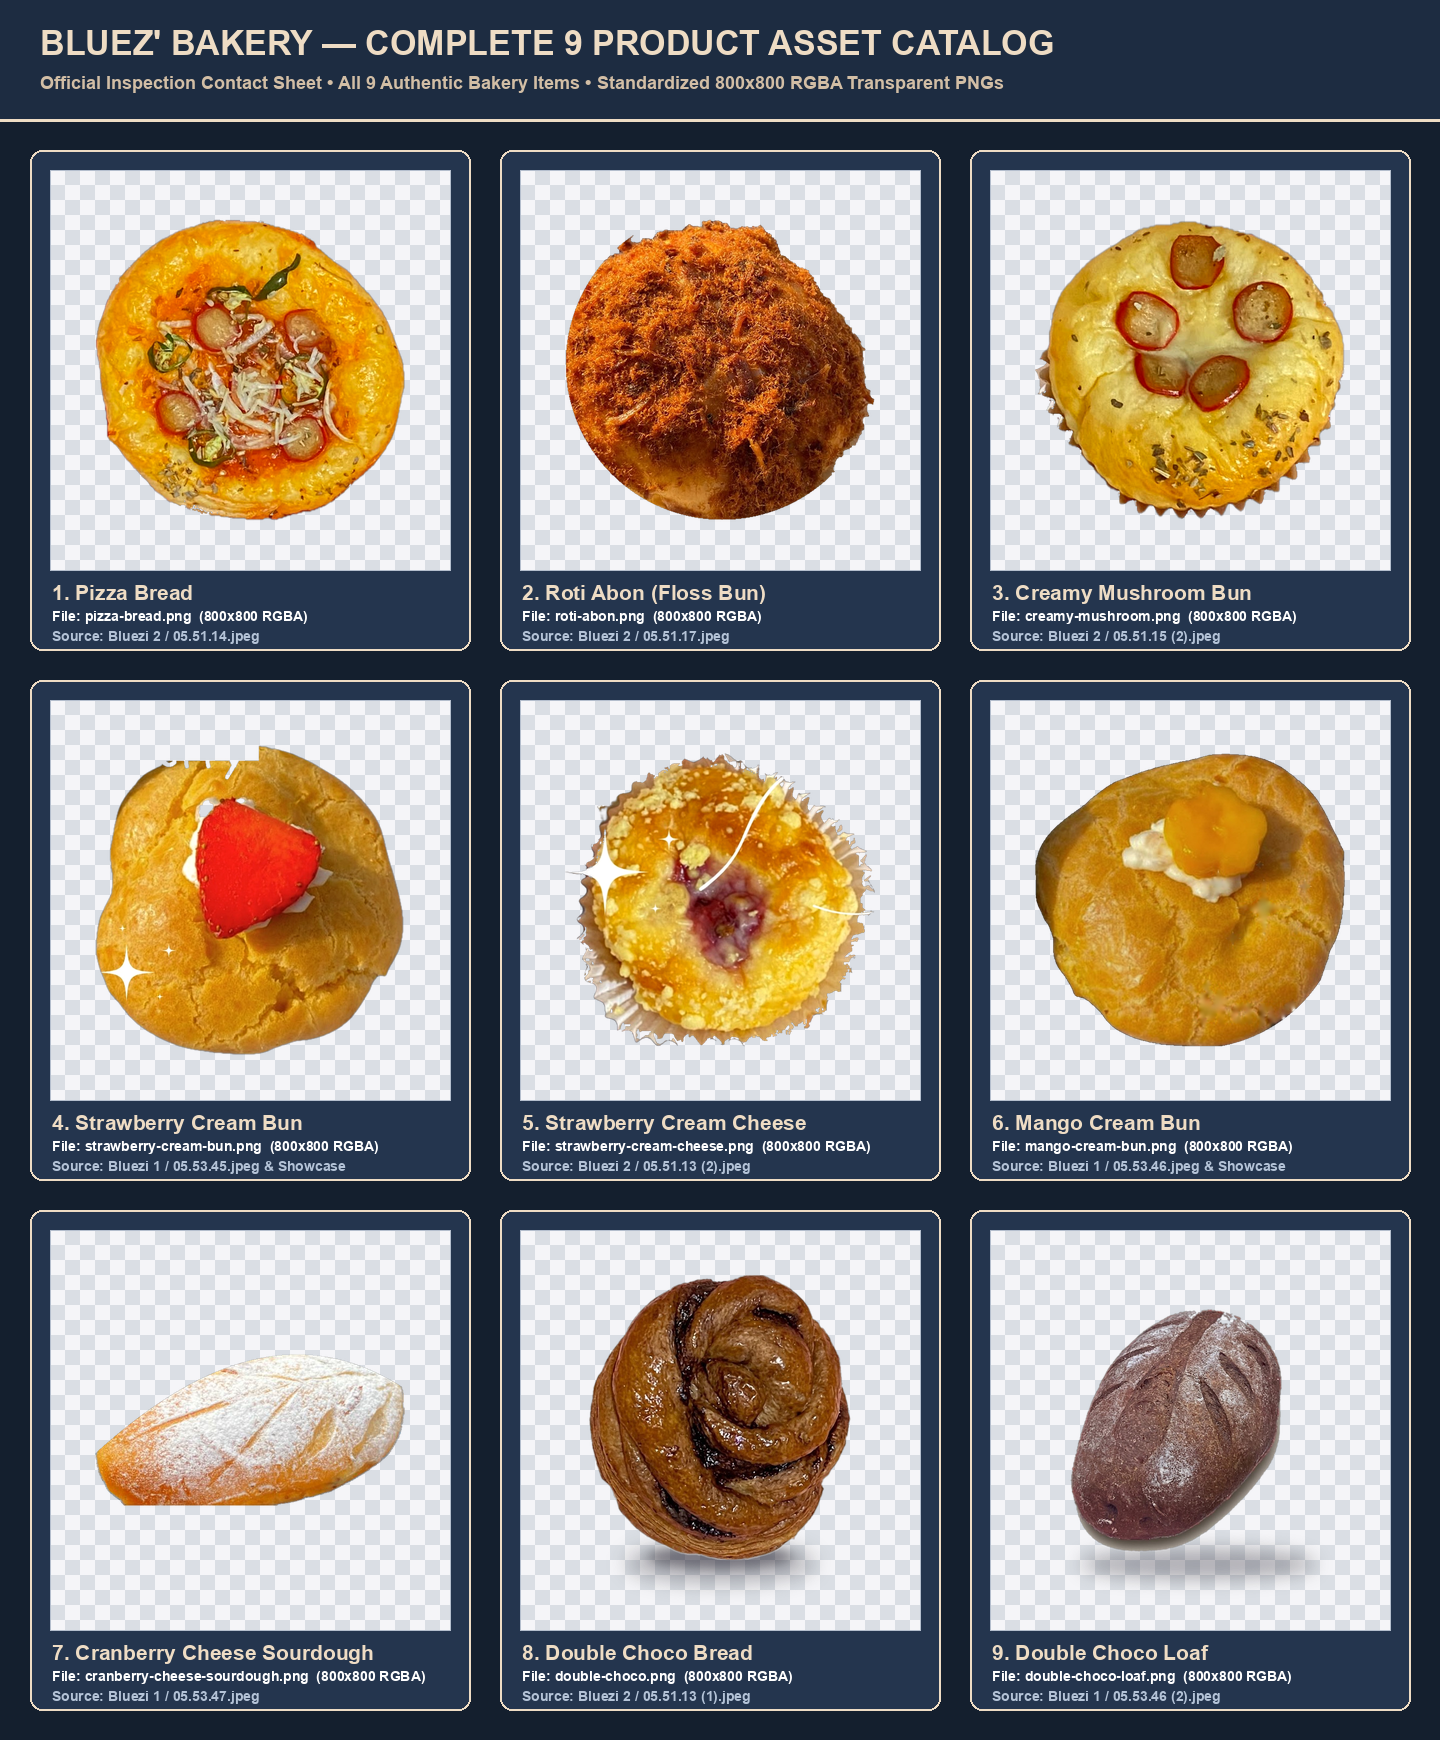
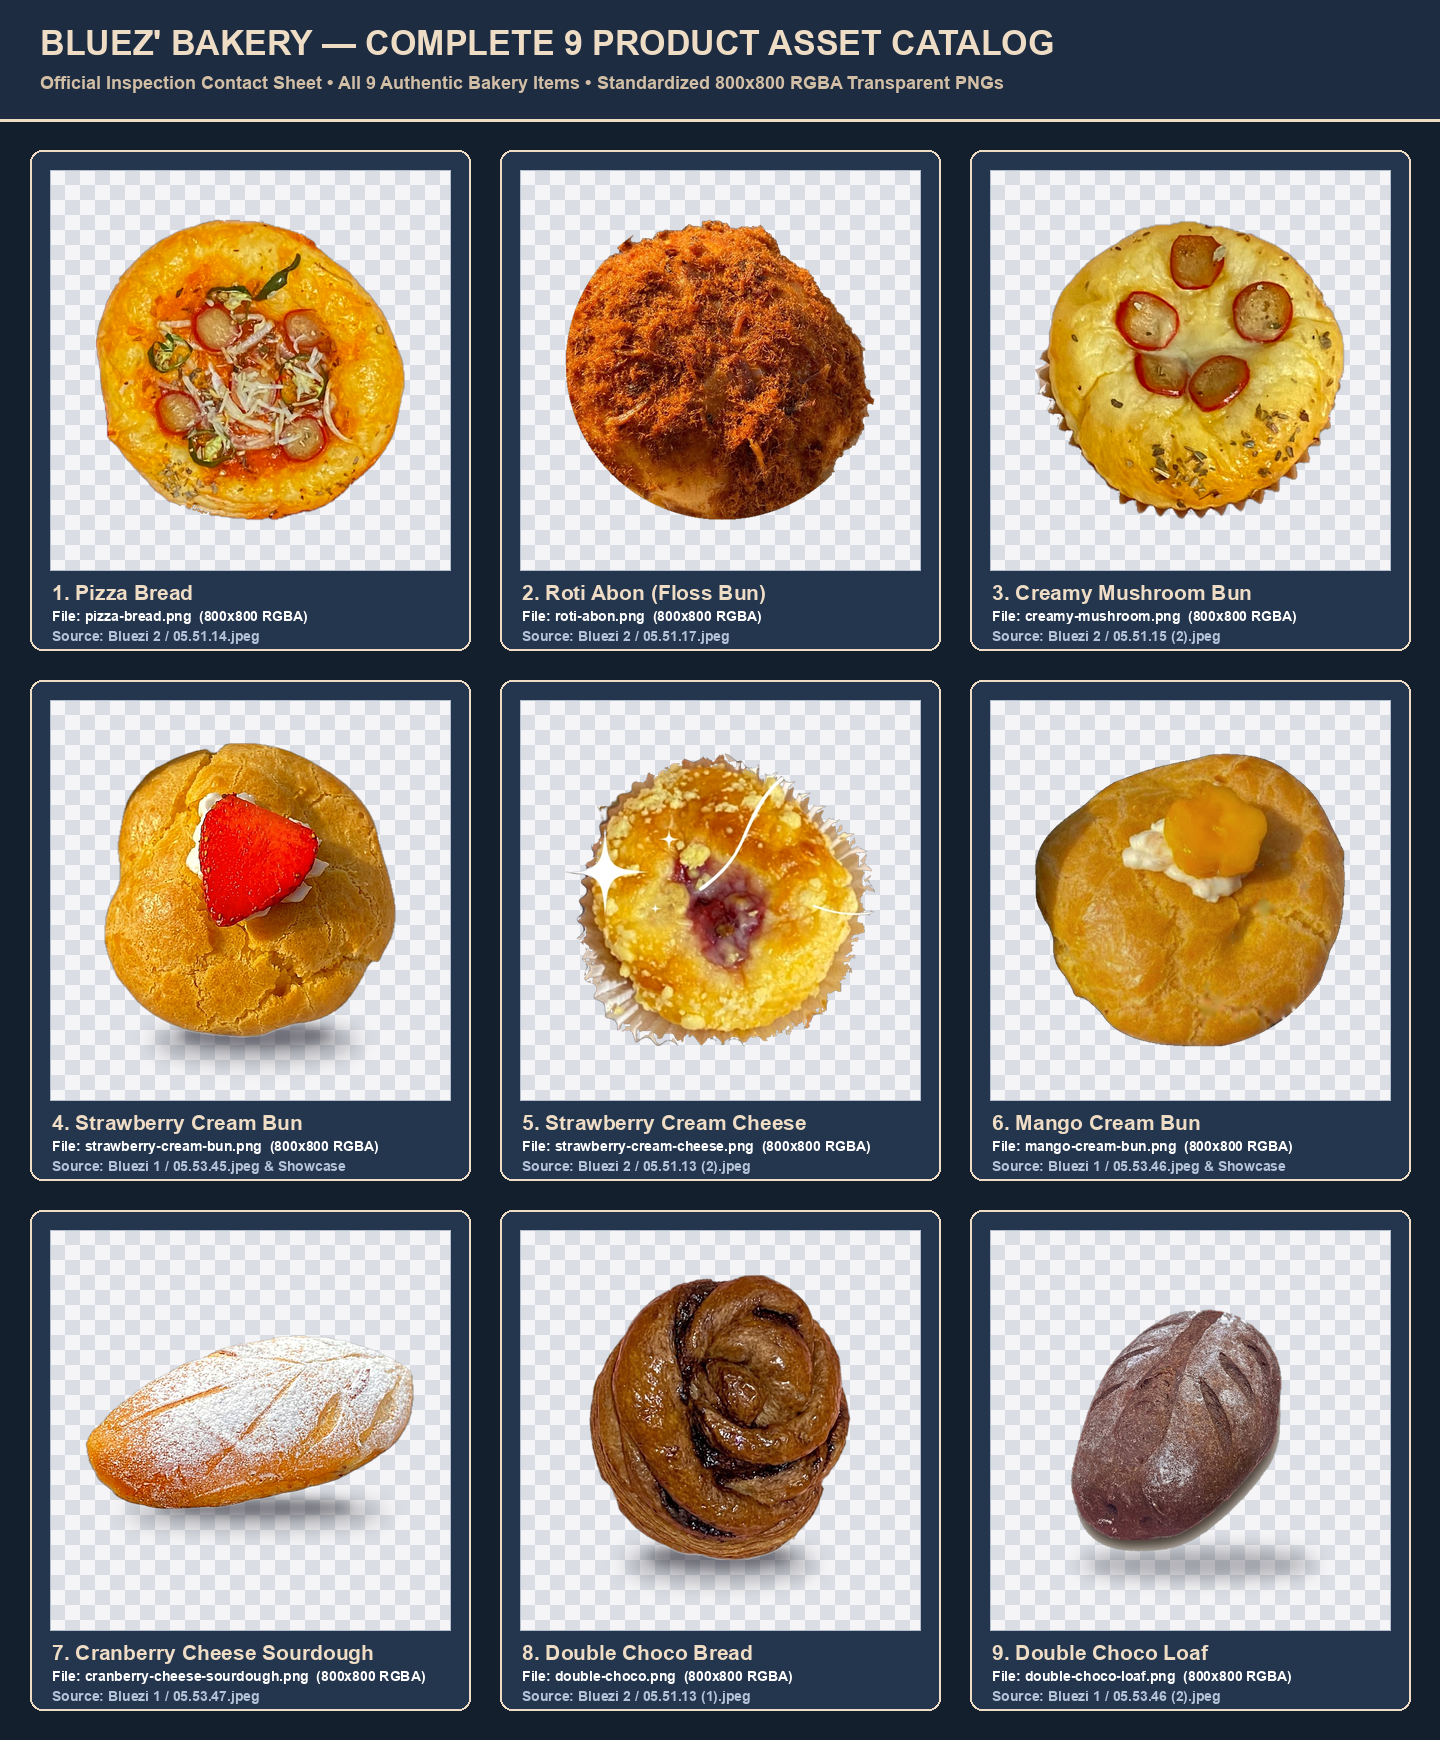
fix(product-images): replace Strawberry Cream Bun, Choux au Craquelin, and Cranberry Cheese Sourdough with clean 4K transparent PNGs

Changed region(s): [[0.0625, 0.4034, 0.2812, 0.6207], [0.0625, 0.7448, 0.3125, 0.9]]

diff --git a/app.js b/app.js
@@ -101,7 +101,7 @@ const PRODUCTS_DATA = [
     shortDesc: 'Kulit soes choux renyah lembut berpadu isian butter cream manis gurih dan potongan strawberry segar.',
     fullDesc: 'Kulit choux pastry lembut dan renyah khas Bluezi yang diisi dengan butter cream manis-gurih lembut istimewa, dipadukan dengan selai strawberry manis dan potongan buah strawberry segar di atasnya. Cita rasa klasik bakery artisan yang tak pernah salah!',
     images: {
-      cutout: 'public/images/products/enhanced/strawberry-cream-bun.png?v=photoreal_v5',
+      cutout: 'public/images/products/enhanced/strawberry-cream-bun.png?v=clean_v8',
       real1: 'assets/real_photos/bluezi2/strawberry_cream_bluezi_box.jpg',
       real2: 'assets/real_photos/bluezi2/strawberry_cream_tray.jpg'
     },
@@ -159,7 +159,7 @@ const PRODUCTS_DATA = [
     shortDesc: 'Perpaduan asam-manis buah cranberry ruby dengan potongan keju gurih di dalam adonan sourdough artisan.',
     fullDesc: 'Our delicious sourdough brings together sweet, tangy cranberries and rich, savory cheese in every bite. With its signature sourdough flavor and the perfect balance of sweetness and creaminess, this one tastes like a piece of bakery heaven. Fermentasi alami 24 jam dengan kerak renyah bertabur tepung.',
     images: {
-      cutout: 'public/images/products/enhanced/cranberry-cheese-sourdough.png?v=photoreal_v5',
+      cutout: 'public/images/products/enhanced/cranberry-cheese-sourdough.png?v=clean_v8',
       real1: 'assets/real_photos/bluezi1/cranberry_sourdough_tray.jpg',
       real2: 'assets/editorial/cranberry_sourdough_tray.jpg'
     },
@@ -199,7 +199,7 @@ const PRODUCTS_DATA = [
     shortDesc: 'Kulit soes choux garing keemasan dengan lapisan craquelin renyah dan isian silky vanilla custard dingin lembut.',
     fullDesc: 'Choux pastry istimewa khas Bluezi dengan topping lapisan gula craquelin manis gurih yang merekah renyah saat dipanggang. Diisi melimpah dengan silky vanilla custard cream dingin yang lumer di mulut. Tekstur renyah di luar dan creamy lembut di dalam. Tersedia satuan dan pilihan box isi 6.',
     images: {
-      cutout: 'public/images/products/enhanced/choux-craquelin.png',
+      cutout: 'public/images/products/enhanced/choux-craquelin.png?v=clean_v8',
       real1: 'assets/editorial/choux_craquelin_box.jpg'
     },
     photoShape: 'round',

diff --git a/order.js b/order.js
@@ -55,7 +55,7 @@ const BAKERY_PRODUCTS = [
     price: 6000,
     priceFormatted: 'Rp 6.000',
     shortDesc: 'Kulit choux pastry renyah lembut dengan isian butter cream manis gurih lembut dan potongan strawberry segar.',
-    image: 'public/images/products/enhanced/strawberry-cream-bun.png?v=photoreal_v5'
+    image: 'public/images/products/enhanced/strawberry-cream-bun.png?v=clean_v8'
   },
   {
     id: 'strawberry-cream-cheese',
@@ -85,7 +85,7 @@ const BAKERY_PRODUCTS = [
     price: 15000,
     priceFormatted: 'Rp 15.000',
     shortDesc: 'Adonan sourdough fermentasi 24 jam dengan buah cranberry ruby manis-asam dan keju savory gurih.',
-    image: 'public/images/products/enhanced/cranberry-cheese-sourdough.png?v=photoreal_v5'
+    image: 'public/images/products/enhanced/cranberry-cheese-sourdough.png?v=clean_v8'
   },
   {
     id: 'double-choco-bread',
@@ -105,7 +105,7 @@ const BAKERY_PRODUCTS = [
     price: 8000,
     priceFormatted: 'Rp 8.000',
     shortDesc: 'Kulit soes choux garing keemasan dengan lapisan craquelin renyah dan isian silky vanilla custard dingin lembut.',
-    image: 'public/images/products/enhanced/choux-craquelin.png'
+    image: 'public/images/products/enhanced/choux-craquelin.png?v=clean_v8'
   },
   {
     id: 'cookie-classic-chocochip',
